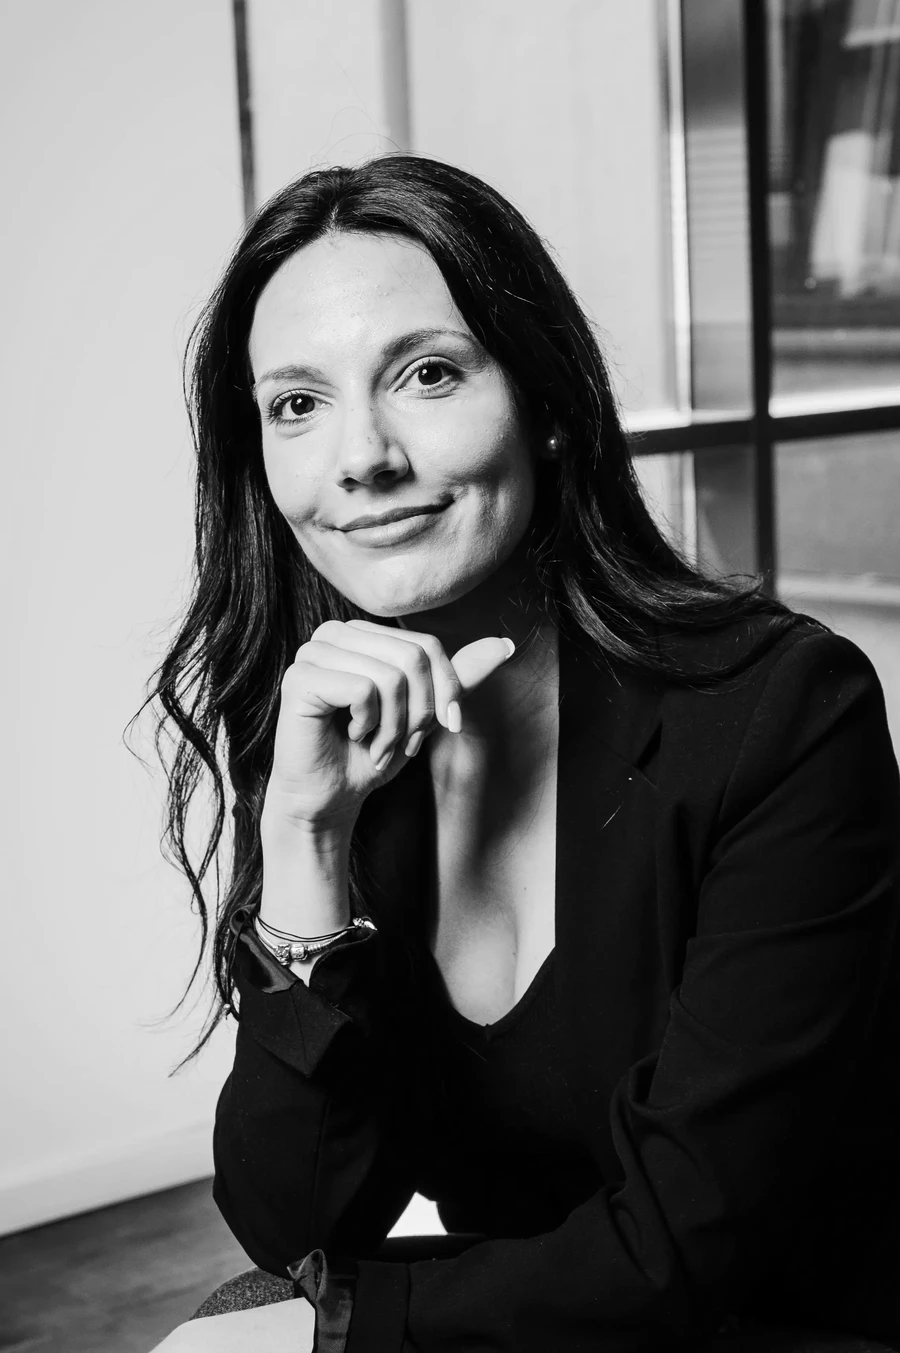
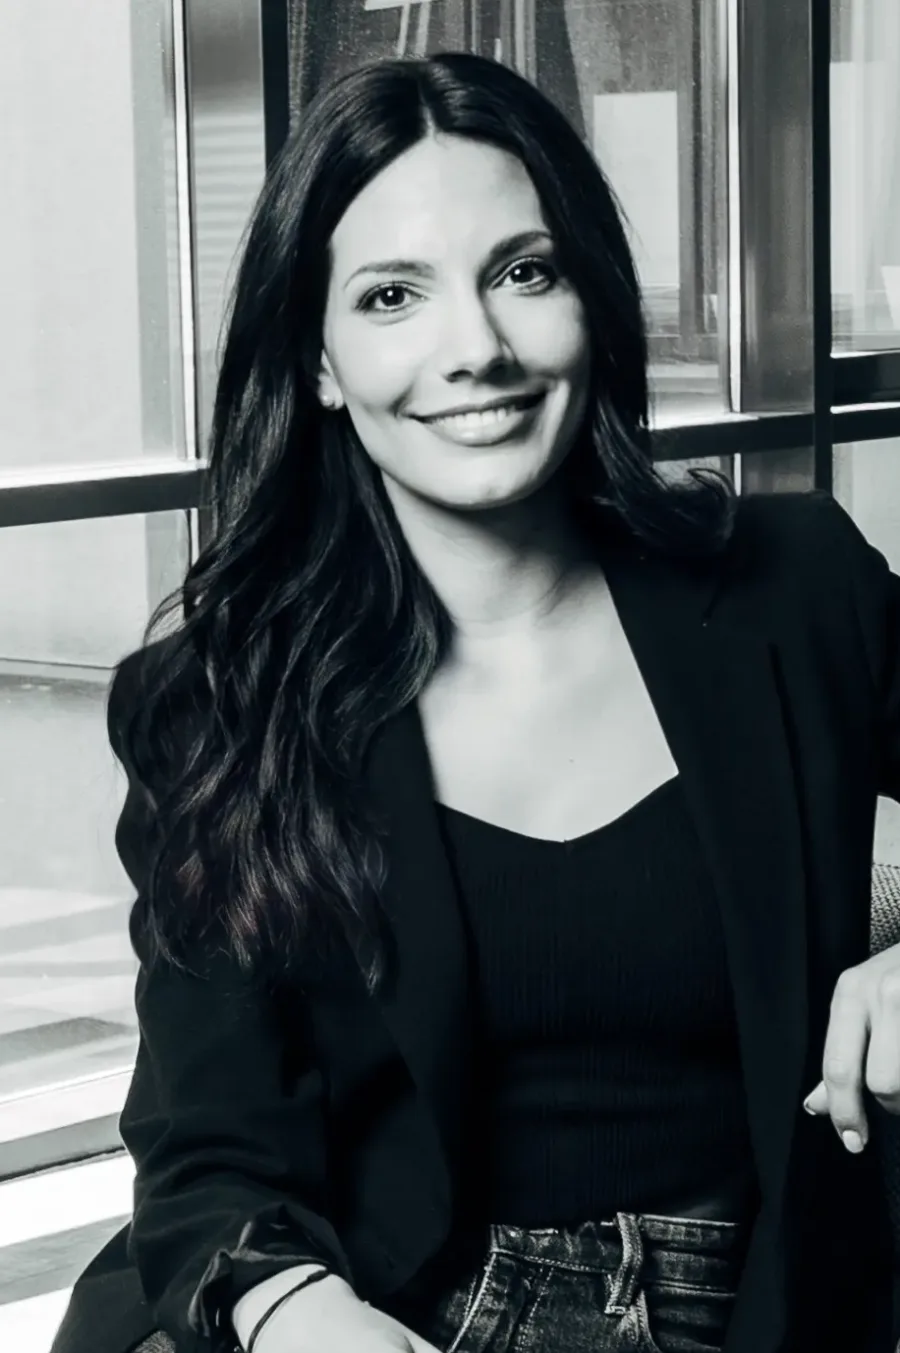
Aylin Firat: neues Team-Foto (Kopf-Schulter-Crop, analog zur Reihe)
Neues Master Aylin neu.webp auf 2:3-Kopf-Schulter-Portraet zugeschnitten
(Gesicht ~30%), 900x1353 — analog gerahmt zu den uebrigen Karten. focus()
und Zielformat unveraendert.

diff --git a/CHANGELOG.md b/CHANGELOG.md
@@ -58,6 +58,12 @@ Schritten optimiert, damit sich jeder Effekt am Gerät nachmessen lässt:
   nur das Umfeld → `anticipatePin` mobil aus (Desktop unverändert, Geometrie dort verifiziert
   stabil), der Pin rastet jetzt exakt am Trigger ein.
 
+### Aylin-Foto getauscht (24.07.)
+- **Aylin Firat — neues Team-Foto:** aus dem neuen Master (`Aylin neu.webp`, 3800×5712) auf ein
+  Kopf-Schulter-Porträt zugeschnitten (2:3, Gesicht ~30 %) und auf 900×1353 gerechnet — analog
+  gerahmt zu den übrigen Karten der Reihe (statt des weiten Sitz-Shots des Originals). `focus()`
+  („50% 0%") und Zielformat unverändert.
+
 ### Build-Fix (Production), Marcus-Bild & Hero-Revert (24.07.)
 - **KRITISCH — Vercel-Production-Build repariert:** In `SmoothScroll.tsx` stand eine
   ungültige Lenis-Option (`touchInertiaMultiplier`). `next dev` (lokal) type-checkt nicht
